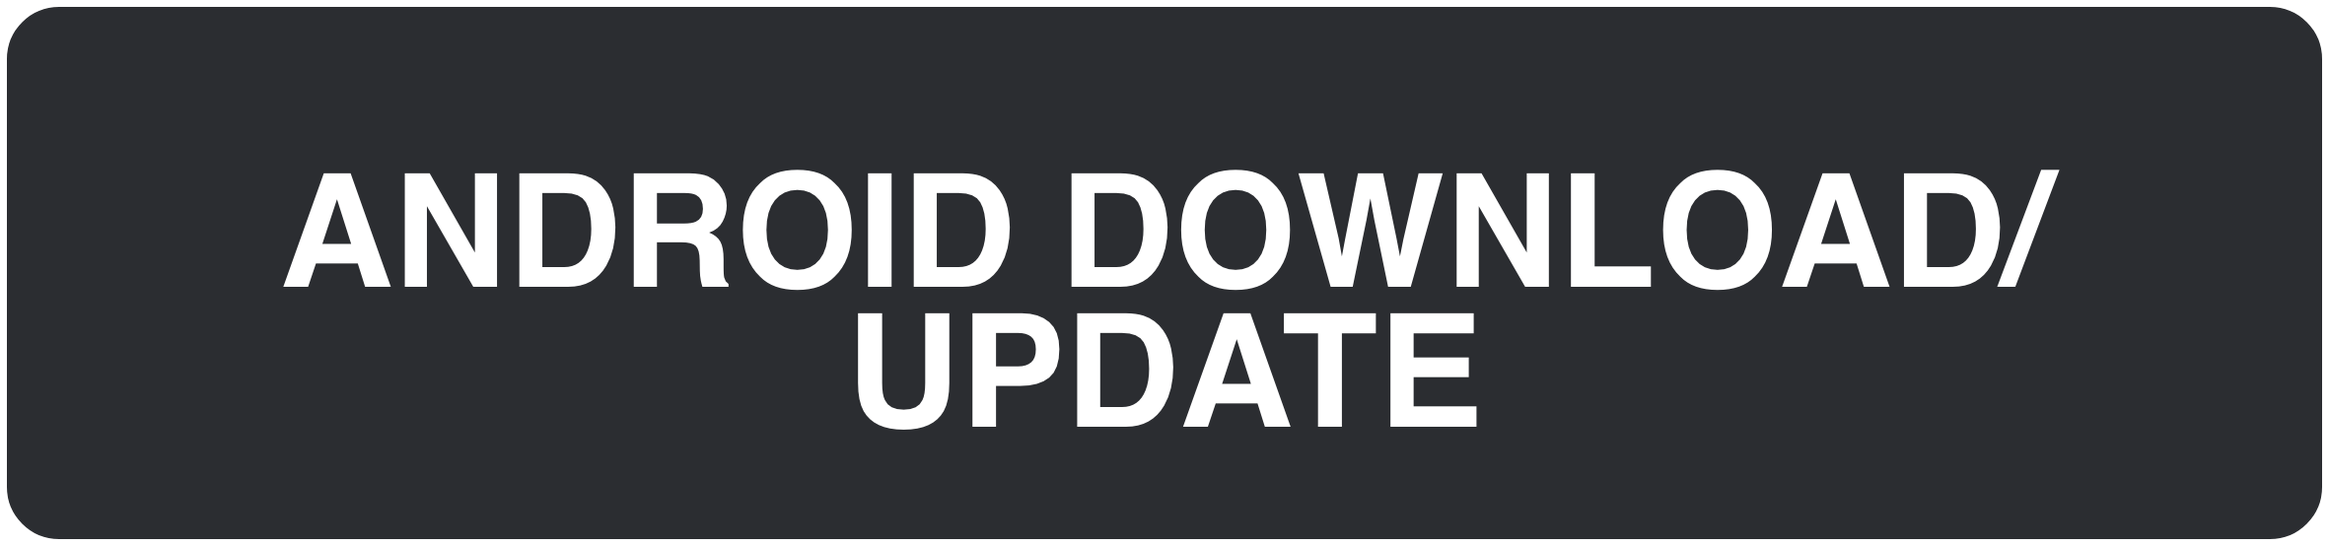
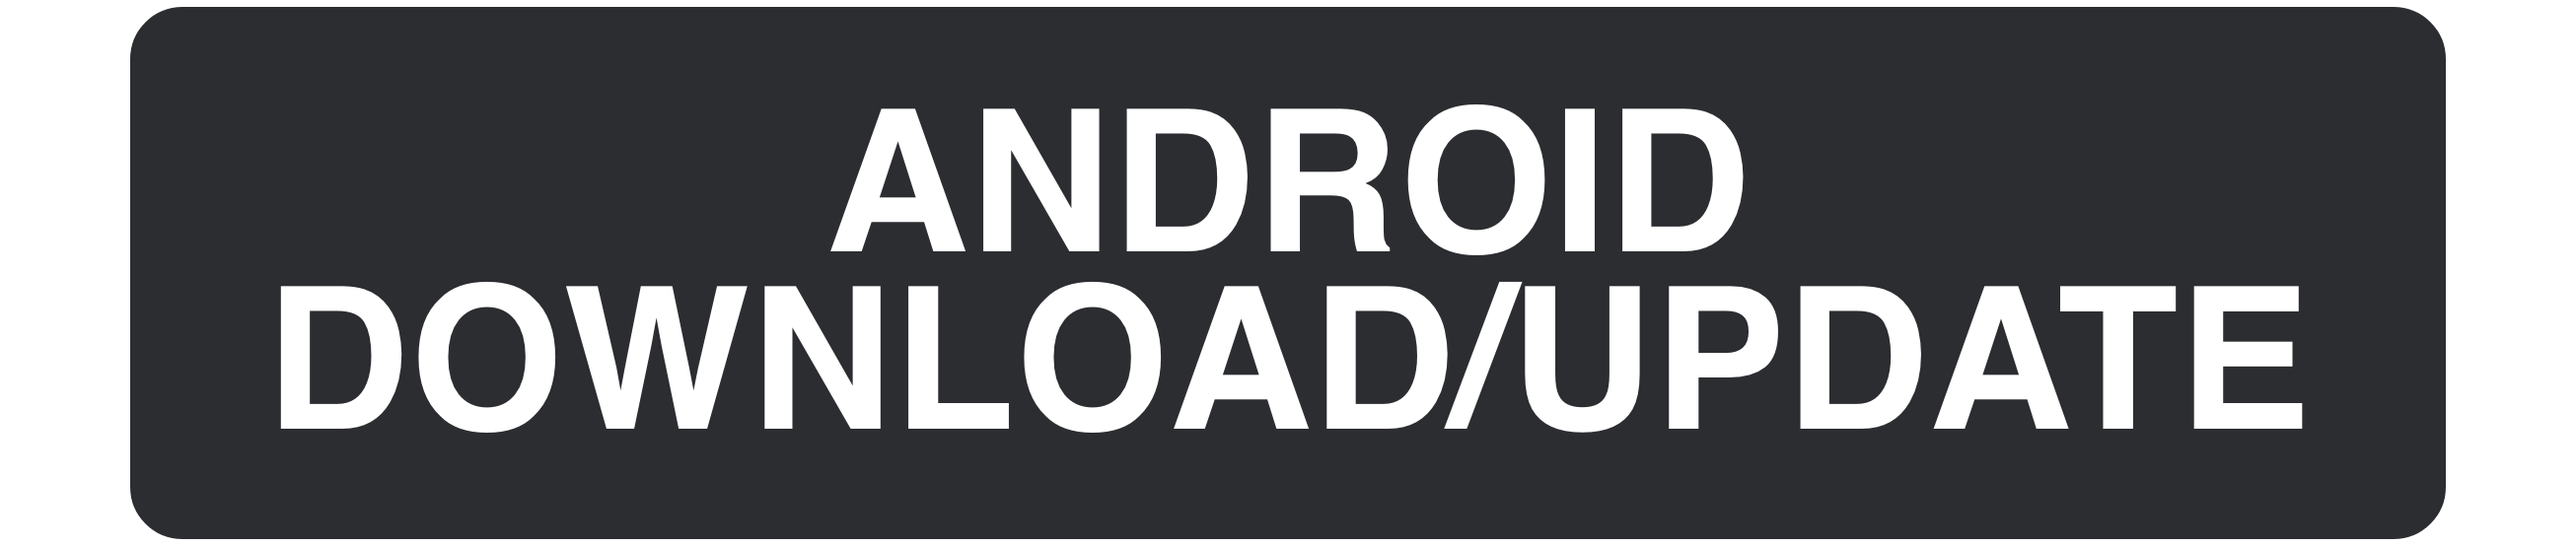
Added new assets

diff --git a/src/components/Home/Hero/Hero.js b/src/components/Home/Hero/Hero.js
@@ -7,9 +7,9 @@ import color from "../../styles/colors";
 import breakPoints from "../../styles/breakpoints";
 import Background from "../../assets/svg/WavyHeader.svg";
 import AppStoreButton from "../../assets/img/AppStore.png";
-import PlayStoreButton from "../../assets/img/PlayStore.png";
+import PlayStoreButton from "../../assets/img/PlayStore@2x.png";
 import VendorButton from "../../assets/img/vendor_button@2x.png";
-import AndroidInstructions from "../../assets/img/AndroidInstructions.png";
+import AndroidInstructions from "../../assets/img/AndroidInstructions@2x.png";
 
 import "react-animated-slider/build/horizontal.css";
 
@@ -96,7 +96,12 @@ const Image = styled.img`
 
 	@media only screen and (max-width: ${breakPoints.medium}) {
 		height: 5rem;
-		width: 15rem;
+		width: 17rem;
+	}
+
+	@media only screen and (max-width: ${breakPoints.small}) {
+		height: 6rem;
+		width: 20rem;
 	}
 `;
 
@@ -290,7 +295,7 @@ export default function Hero() {
 									<a href="https://downloads.chopbarh.com/chopbarh.apk">
 										<Image
 											src={PlayStoreButton}
-											className="mr-lg-3 mr-md-3 mr-sm-2 mb-lg-3 mb-md-3"
+											className="mr-lg-3 mt-lg-3 mt-md-3 mr-md-3 mr-sm-2 mb-lg-3 mb-md-3"
 											alt="Play Store"
 										/>
 									</a>
@@ -336,7 +341,7 @@ export default function Hero() {
 									<a href="https://downloads.chopbarh.com/chopbarh.apk">
 										<Image
 											src={PlayStoreButton}
-											className="mr-lg-3 mr-md-3 mr-sm-2 mb-lg-3 mb-md-3"
+											className="mr-lg-3 mt-lg-3 mt-md-3 mr-md-3 mr-sm-2 mb-lg-3 mb-md-3"
 											alt="Play Store"
 										/>
 									</a>
@@ -380,7 +385,7 @@ export default function Hero() {
 									<a href="https://downloads.chopbarh.com/chopbarh.apk">
 										<Image
 											src={PlayStoreButton}
-											className="mr-lg-3 mr-md-3 mr-sm-2 mb-lg-3 mb-md-3"
+											className="mr-lg-3 mt-lg-3 mt-md-3 mr-md-3 mr-sm-2 mb-lg-3 mb-md-3"
 											alt="Play Store"
 										/>
 									</a>
@@ -421,7 +426,7 @@ export default function Hero() {
 									<a href="https://downloads.chopbarh.com/chopbarh.apk">
 										<Image
 											src={PlayStoreButton}
-											className="mr-lg-3 mr-md-3 mr-sm-2 mb-lg-3 mb-md-3"
+											className="mr-lg-3 mt-lg-3 mt-md-3 mr-md-3 mr-sm-2 mb-lg-3 mb-md-3"
 											alt="Play Store"
 										/>
 									</a>
@@ -462,7 +467,7 @@ export default function Hero() {
 									<a href="https://downloads.chopbarh.com/chopbarh.apk">
 										<Image
 											src={PlayStoreButton}
-											className="mr-lg-3 mr-md-3 mr-sm-2 mb-lg-3 mb-md-3"
+											className="mr-lg-3 mt-lg-3 mt-md-3 mr-md-3 mr-sm-2 mb-lg-3 mb-md-3"
 											alt="Play Store"
 										/>
 									</a>
@@ -495,13 +500,6 @@ export default function Hero() {
 									moment
 								</ParagraphOne>
 								<div className="hero__buttons mt-4 ml-lg-3 ml-md-3">
-									{/* <MainLink
-                href="https://downloads.chopbarh.com/chopbarh.apk https://play.google.com/store/apps/details?id=com.chopbarh.common"
-                target="_blank"
-                className="mr-lg-4 mr-md-4 mr-sm-2"
-              >
-                <span style={{ color: "#ffffff" }}>Start Playing</span>{" "}
-              </MainLink> */}
 									<span style={{ cursor: "pointer" }}>
 										<a href="https://apps.apple.com/us/app/chopbarh/id1463959707?ls=1">
 											<Image
